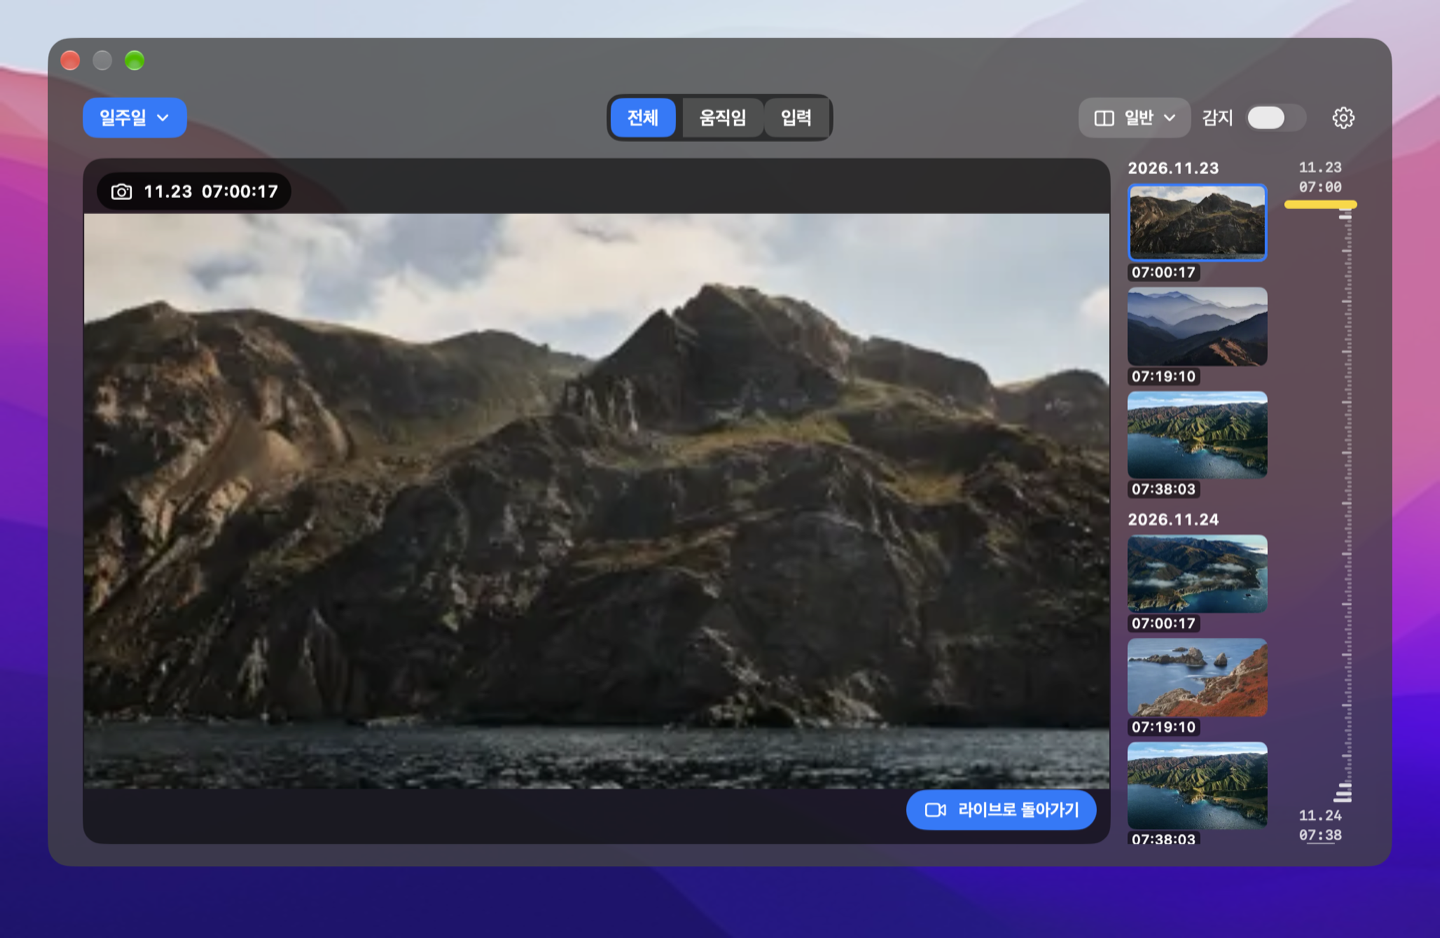
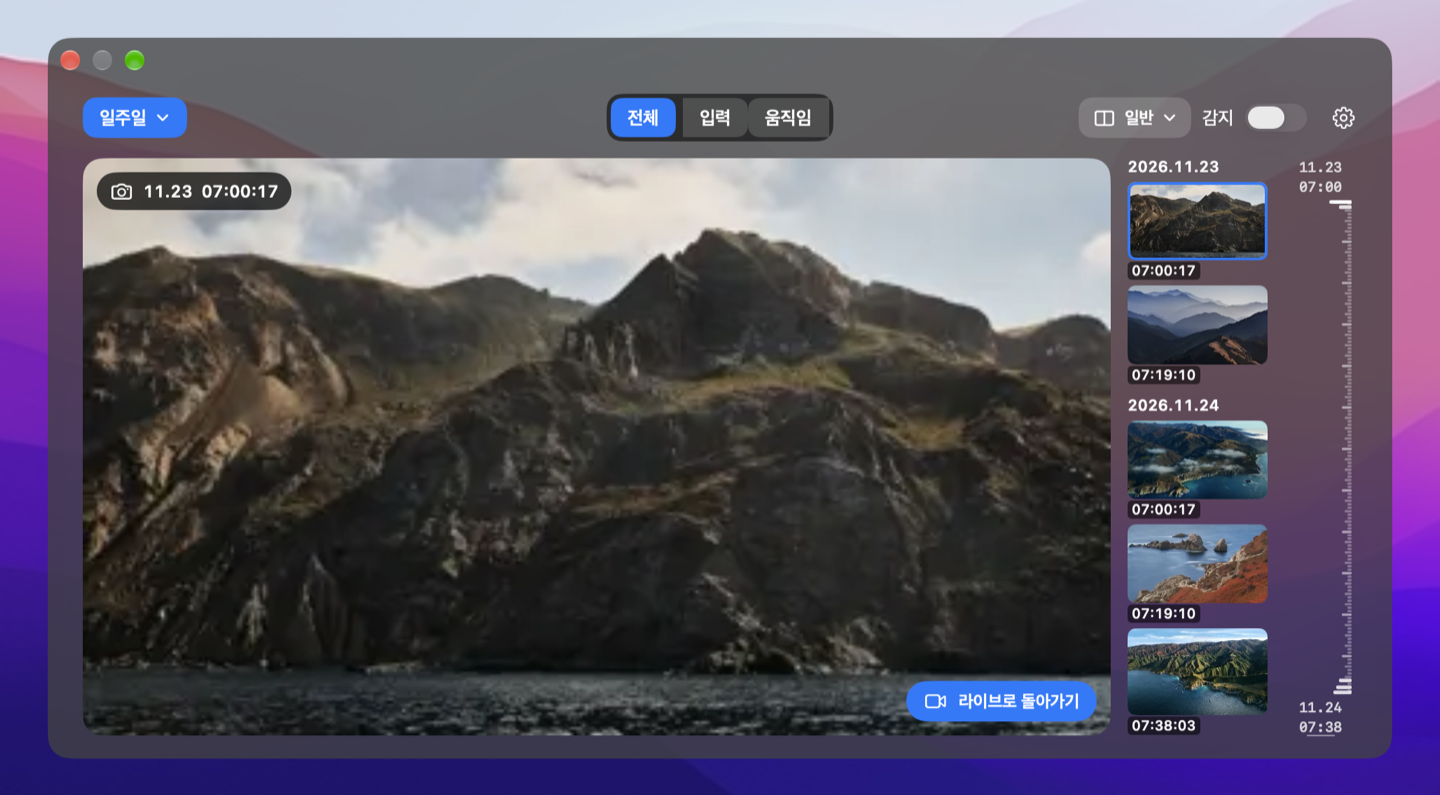
자리기록 0.3.3 영상 위 컨트롤과 짧은 세로 시간 눈금 적용

diff --git a/Tests/Checks.swift b/Tests/Checks.swift
@@ -26,11 +26,20 @@ struct Checks {
     @MainActor
     static func main() throws {
         var starts = 0
-        let feed = CameraFeed(requestAccess: { true }, startCamera: { _ in starts += 1 })
+        var source: MotionCamera?
+        let feed = CameraFeed(requestAccess: { true }, startCamera: { source = $0; starts += 1 })
         feed.showPreview(true)
         RunLoop.current.run(until: Date().addingTimeInterval(0.1))
         let session = feed.preview
         try expect(session != nil && starts == 1, "live preview starts one camera")
+        for (width, height) in [(320, 240), (640, 360)] {
+            var buffer: CVPixelBuffer?
+            guard CVPixelBufferCreate(nil, width, height, kCVPixelFormatType_32BGRA, nil, &buffer) == kCVReturnSuccess,
+                  let buffer, let source else { throw AppProblem("라이브 비율 시험 프레임 생성 실패") }
+            source.processFrame(buffer)
+            RunLoop.current.run(until: Date().addingTimeInterval(0.05))
+            try expect(feed.displayRatio == CGFloat(width) / CGFloat(height), "live surface follows the received frame aspect before arming")
+        }
         var armed = false
         Task { @MainActor in
             try await feed.beginDetection(minutes: 10, onImage: { _, _ in }, onFailure: { _ in })
@@ -250,18 +259,36 @@ struct Checks {
             return rep
         }
         func markerRow(_ rep: NSBitmapImageRep) -> Int? {
-            let x = Int((size.width - GalleryLayout.inset - 14) * CGFloat(rep.pixelsWide) / size.width)
-            return (0..<rep.pixelsHigh).first {
-                guard let color = rep.colorAt(x: x, y: $0)?.usingColorSpace(.sRGB) else { return false }
-                return color.redComponent > 0.85 && color.greenComponent > 0.65 && color.blueComponent < 0.4
+            let scale = CGFloat(rep.pixelsWide) / host.bounds.width
+            let edge = host.bounds.width - GalleryLayout.inset - 4
+            return (0..<rep.pixelsHigh).first { row in
+                (2...14).allSatisfy { offset in
+                    let x = Int((edge - CGFloat(offset)) * scale)
+                    guard let color = rep.colorAt(x: x, y: row)?.usingColorSpace(.sRGB) else { return false }
+                    return min(color.redComponent, color.greenComponent, color.blueComponent) > 0.85
+                }
             }
         }
+        settle()
+        let expectedHeight = GalleryLayout.standardOpeningHeight(windowWidth: size.width)
+        try expect(abs(window.contentLayoutRect.height - expectedHeight) <= 1, "standard window opens at the fitted 16:9 viewer height")
+        // An explicitly taller window must keep the overlay on the photo.
+        window.setContentSize(size)
         settle()
         try expect(model.cameraFeed.previewIssue != nil && !model.active, "camera denial keeps standard archive available and detection off")
         guard let scroll = list(host), let document = scroll.documentView else { throw AppProblem("저장 목록 없음") }
         let viewport = scroll.contentView
         try expect(abs(viewport.bounds.maxY - document.bounds.maxY) < 2, "standard list opens at the newest record (viewport \(viewport.bounds.maxY), document \(document.bounds.maxY))")
-        guard let liveMark = try markerRow(snapshot("standard-live.png")) else { throw AppProblem("세로 시간 눈금 표시 없음") }
+        let liveImage = try snapshot("standard-live.png")
+        guard let liveMark = markerRow(liveImage) else { throw AppProblem("세로 시간 눈금 표시 없음") }
+        let scale = CGFloat(liveImage.pixelsWide) / host.bounds.width
+        let edge = host.bounds.width - GalleryLayout.inset - 4
+        let middleRow = liveMark + Int(scale)
+        let length = (0..<Int(30 * scale)).filter { offset in
+            guard let c = liveImage.colorAt(x: Int(edge * scale) - offset, y: middleRow)?.usingColorSpace(.sRGB) else { return false }
+            return min(c.redComponent, c.greenComponent, c.blueComponent) > 0.85
+        }.count
+        try expect(abs(CGFloat(length) / scale - 16) <= 1, "vertical playhead uses a short neutral 16-point tick")
         viewport.scroll(to: CGPoint(x: 0, y: 80))
         scroll.reflectScrolledClipView(viewport)
         settle()
@@ -269,15 +296,17 @@ struct Checks {
         let frame = scroll.convert(scroll.bounds, to: nil)
         try click(CGPoint(x: frame.midX, y: frame.midY))
         guard let picked = try markerRow(snapshot("standard-photo.png")) else { throw AppProblem("선택 시간 표시 없음") }
-        try expect(abs(picked - liveMark) > 20, "clicking an old thumbnail moves the yellow marker")
+        try expect(abs(picked - liveMark) > 20, "clicking an old thumbnail moves the short neutral marker")
         let offset = viewport.bounds.minY
         _ = try store.save(data, kind: .screen, at: Date().addingTimeInterval(1))
         model.reload()
         settle()
         try expect(abs(viewport.bounds.minY - offset) < 2 && abs((try markerRow(snapshot()) ?? -1000) - picked) < 10,
                    "new capture preserves historical selection and reading position (was \(offset), now \(viewport.bounds.minY))")
-        try click(CGPoint(x: frame.minX - 95, y: frame.minY + 25))
-        try expect(try markerRow(snapshot()) == liveMark, "return to live restores the latest-record marker")
+        let mediaWidth = frame.minX - GalleryLayout.gap - GalleryLayout.inset
+        let mediaBottom = frame.maxY - mediaWidth * 9 / 16
+        try click(CGPoint(x: frame.minX - 90, y: mediaBottom + 24))
+        try expect(try markerRow(snapshot()) == liveMark, "button over the photo restores live and the latest-record marker")
         for (width, expected) in [(680, 66), (961, 100), (1440, 158), (960, 100)] {
             window.setContentSize(CGSize(width: CGFloat(width), height: size.height))
             settle()

diff --git a/Sources/TimeRuler.swift b/Sources/TimeRuler.swift
@@ -27,10 +27,23 @@ struct TimeRuler: View {
         VStack(spacing: 3) {
             if vertical, let first = index.chronological.first { timeLabel(first) }
             GeometryReader { proxy in
+                let position = active.map { index.fraction(of: $0.date) }
                 WaveTicks(buckets: index.marks, center: lastPosition, gain: pointer == nil ? 0 : 1,
-                          currentPosition: active.map { index.fraction(of: $0.date) }, reduceMotion: reduceMotion, vertical: vertical)
+                          currentPosition: vertical ? nil : position, reduceMotion: reduceMotion, vertical: vertical)
                 .animation(reduceMotion ? nil : .easeOut(duration: 0.11), value: lastPosition)
                 .animation(reduceMotion ? nil : .easeOut(duration: 0.16), value: pointer != nil)
+                .overlay {
+                    if vertical, let position {
+                        let length = min(16, max(0, proxy.size.width - 4))
+                        let thickness = min(2.5, proxy.size.height)
+                        Capsule().fill(.white.opacity(0.94))
+                            .frame(width: length, height: thickness)
+                            .position(x: proxy.size.width - 4 - length / 2,
+                                      y: min(max(thickness / 2, proxy.size.height * position), proxy.size.height - thickness / 2))
+                            .id(position).transition(.opacity)
+                    }
+                }
+                .animation(reduceMotion ? nil : .easeOut(duration: 0.12), value: vertical ? position : nil)
                 .contentShape(Rectangle())
                 .onContinuousHover { phase in
                     switch phase {
@@ -133,7 +146,8 @@ private struct WaveTicks: View, Animatable {
                 let base: CGFloat = major ? 7 : (i.isMultiple(of: 3) ? 5 : 3)
                 let distance = (t-center)*width
                 let proximity = gain * exp(-pow(distance/28, 2)/2)
-                let extra = reduceMotion ? 0 : 21*proximity*(0.87+0.13*cos(distance/8))
+                let amplitude: CGFloat = vertical ? 4 : 21
+                let extra = reduceMotion ? 0 : amplitude * proximity * (0.87 + 0.13 * cos(distance / 8))
                 let eventHeight = events == 0 ? 0 : min(10, 5+log2(Double(events+1)))
                 let h = min(max(0, baseline-5), base+extra+eventHeight)
                 let color: Color

diff --git a/Sources/StandardGallery.swift b/Sources/StandardGallery.swift
@@ -21,7 +21,7 @@ struct StandardGallery: View {
                         selected = item
                         scroll.scrollTo(item.id, anchor: .center)
                     }, vertical: true)
-                    .frame(width: 52)
+                    .frame(width: GalleryLayout.standardRulerWidth)
                 }
                 .onChange(of: index.chronological) { old, rows in
                     if let selected, !rows.contains(selected) {
@@ -33,7 +33,7 @@ struct StandardGallery: View {
                 }
             }
         }
-        .padding(.horizontal, GalleryLayout.inset).padding(.bottom, 16)
+        .padding(.horizontal, GalleryLayout.inset).padding(.bottom, GalleryLayout.standardBottomInset)
         .onAppear { feed.showPreview(true) }
         .onDisappear { feed.showPreview(false) }
     }
@@ -96,11 +96,12 @@ struct StandardGallery: View {
     }
 
     private var viewer: some View {
-        ZStack {
-            RoundedRectangle(cornerRadius: 14).fill(.black.opacity(0.56))
+        let ratio = selected.flatMap { Picture.aspectRatio(at: $0.url) } ?? feed.displayRatio ?? GalleryLayout.defaultVideoAspect
+        return Color.clear.aspectRatio(ratio, contentMode: .fit)
+        .overlay {
             if let selected {
                 FileImage(url: selected.url, detail: true).id(selected.url)
-                    .padding(1).accessibilityLabel(selected.kind.title)
+                    .accessibilityLabel(selected.kind.title)
             } else if let session = feed.preview {
                 CameraPreview(session: session).accessibilityLabel("라이브 카메라")
             } else if let issue = feed.previewIssue {
@@ -113,7 +114,9 @@ struct StandardGallery: View {
                 ProgressView("카메라 연결 중").controlSize(.small)
             }
         }
-        .frame(maxWidth: .infinity, maxHeight: .infinity)
+        .background {
+            if selected == nil && feed.preview == nil { Color.black.opacity(0.56) }
+        }
         .overlay(alignment: .topLeading) {
             HStack(spacing: 6) {
                 if let selected {
@@ -138,6 +141,7 @@ struct StandardGallery: View {
             }
         }
         .clipShape(RoundedRectangle(cornerRadius: 14))
+        .frame(maxWidth: .infinity, maxHeight: .infinity, alignment: .top)
     }
 }
 

diff --git a/Sources/MotionCamera.swift b/Sources/MotionCamera.swift
@@ -10,9 +10,13 @@ final class MotionCamera: NSObject, AVCaptureVideoDataOutputSampleBufferDelegate
     private var lastSample = -Double.infinity
     private var gate: MotionGate?
     private var onImage: (@Sendable (CGImage, Date) -> Void)?
+    private var lastDisplaySize = CGSize.zero
+    private let onDisplayRatio: @Sendable (CGFloat) -> Void
     private let onFailure: @Sendable (String) -> Void
 
-    init(onFailure: @escaping @Sendable (String) -> Void) {
+    init(onDisplayRatio: @escaping @Sendable (CGFloat) -> Void,
+         onFailure: @escaping @Sendable (String) -> Void) {
+        self.onDisplayRatio = onDisplayRatio
         self.onFailure = onFailure
     }
 
@@ -80,8 +84,18 @@ final class MotionCamera: NSObject, AVCaptureVideoDataOutputSampleBufferDelegate
     }
 
     func captureOutput(_ output: AVCaptureOutput, didOutput sampleBuffer: CMSampleBuffer, from connection: AVCaptureConnection) {
+        guard let buffer = CMSampleBufferGetImageBuffer(sampleBuffer) else { return }
+        processFrame(buffer)
+    }
+
+    func processFrame(_ buffer: CVPixelBuffer) {
+        let size = CVImageBufferGetDisplaySize(buffer)
+        if size.width > 0, size.height > 0, size != lastDisplaySize {
+            lastDisplaySize = size
+            onDisplayRatio(size.width / size.height)
+        }
         let now = ProcessInfo.processInfo.systemUptime
-        guard let onImage, now - lastSample >= 0.18, let buffer = CMSampleBufferGetImageBuffer(sampleBuffer) else { return }
+        guard let onImage, now - lastSample >= 0.18 else { return }
         lastSample = now
         guard gate?.shouldCapture(Self.luminance(buffer), at: now) == true else { return }
         let date = Date()

diff --git a/Sources/CameraFeed.swift b/Sources/CameraFeed.swift
@@ -5,6 +5,7 @@ import Combine
 @MainActor
 final class CameraFeed: ObservableObject {
     @Published private(set) var preview: AVCaptureSession?
+    @Published private(set) var displayRatio: CGFloat?
     @Published private(set) var previewIssue: String?
     private var camera: MotionCamera?
     private var startup: Task<Void, Error>?
@@ -64,7 +65,12 @@ final class CameraFeed: ObservableObject {
         if camera == nil {
             let id = UUID()
             cameraID = id
-            let source = MotionCamera { [weak self] reason in
+            let source = MotionCamera(onDisplayRatio: { [weak self] ratio in
+                Task { @MainActor in
+                    guard let self, self.cameraID == id else { return }
+                    self.displayRatio = ratio
+                }
+            }) { [weak self] reason in
                 Task { @MainActor in
                     guard let self, self.cameraID == id else { return }
                     self.releaseCamera()
@@ -100,6 +106,7 @@ final class CameraFeed: ObservableObject {
 
     private func releaseCamera() {
         cameraID = UUID()
+        displayRatio = nil
         preview = nil
         startup?.cancel()
         startup = nil

diff --git a/Sources/LibraryView.swift b/Sources/LibraryView.swift
@@ -68,8 +68,8 @@ struct LibraryView: View {
                     chip("전체", leading: 8, trailing: 8, selected: kind == nil) { kind = nil }
                         .accessibilityLabel("감지 종류 전체")
                     HStack(spacing: 0) {
-                        chip("움직임", leading: 0, trailing: 8, selected: kind == .camera) { kind = .camera }
-                        chip("입력", leading: 8, trailing: 0, selected: kind == .screen) { kind = .screen }
+                        chip("입력", leading: 0, trailing: 8, selected: kind == .screen) { kind = .screen }
+                        chip("움직임", leading: 8, trailing: 0, selected: kind == .camera) { kind = .camera }
                     }
                 }
                 .padding(3).background(.black.opacity(0.56), in: RoundedRectangle(cornerRadius: 11))

diff --git a/Sources/ArchiveStyle.swift b/Sources/ArchiveStyle.swift
@@ -34,6 +34,16 @@ enum GalleryLayout {
         return ((fullWidth / 3) / 2).rounded() * 2
     }
 
+    static let standardRulerWidth: CGFloat = 52
+    static let defaultVideoAspect: CGFloat = 16.0 / 9.0
+    static let standardBottomInset: CGFloat = 16
+
+    static func standardOpeningHeight(windowWidth: CGFloat) -> CGFloat {
+        let contentWidth = windowWidth - inset * 2
+        let viewerWidth = contentWidth - standardThumbnailWidth(in: contentWidth) - standardRulerWidth - gap * 2
+        return max(350, ceil(viewerWidth / defaultVideoAspect) + 8 + 34 + gap + standardBottomInset)
+    }
+
     static let rulerHeight: CGFloat = 31
     static let clockHeight: CGFloat = 13
     // Header (8+34), two gaps, photo, ruler, clock spacing and bottom inset.

diff --git a/Sources/WindowGlass.swift b/Sources/WindowGlass.swift
@@ -53,7 +53,7 @@ struct WindowGlass: NSViewRepresentable {
             // keeping the restored width and top edge and allowing later manual resizing.
             let old = window.frame
             let chrome = old.height - window.contentLayoutRect.height
-            let target = mode == .mini ? GalleryLayout.minimumHeight : 560
+            let target = mode == .mini ? GalleryLayout.minimumHeight : GalleryLayout.standardOpeningHeight(windowWidth: window.contentLayoutRect.width)
             let height = min(window.screen?.visibleFrame.height ?? .greatestFiniteMagnitude,
                              max(window.minSize.height, target + chrome))
             guard abs(old.height - height) >= 1 else { return }

diff --git a/README.md b/README.md
@@ -4,7 +4,7 @@
 
 **macOS 14 이상 · Apple Silicon 및 Intel 지원**
 
-[자리기록 0.3.2 설치 파일 받기](https://github.com/sundaynighttt/desk-trace/releases/download/v0.3.2/DeskTrace-0.3.2.dmg) · [릴리스 기록](https://github.com/sundaynighttt/desk-trace/releases)
+[자리기록 0.3.3 설치 파일 받기](https://github.com/sundaynighttt/desk-trace/releases/download/v0.3.3/DeskTrace-0.3.3.dmg) · [릴리스 기록](https://github.com/sundaynighttt/desk-trace/releases)
 
 ![시험용 사진으로 본 일반 모드. 왼쪽에 선택한 사진이 크게 보이고 오른쪽에 촬영 시각이 표시된 목록과 세로 시간 눈금이 있습니다.](docs/gallery.png)
 
@@ -19,11 +19,11 @@
 
 ## 갤러리 사용법
 
-갤러리를 처음 열면 왼쪽 기간 버튼에 **일주일**이 표시되고, 오늘을 포함한 최근 7일의 기록이 보입니다. 버튼을 누르면 **오늘 · 일주일 · 한달 · 전체** 중 하나를 선택할 수 있습니다. 가운데의 **전체 · 움직임 · 입력**은 선택한 기간 안에서 기록 종류를 고릅니다. 한달은 오늘을 포함한 최근 30일이고, 날짜는 맥의 현지 시각을 따릅니다.
+갤러리를 처음 열면 왼쪽 기간 버튼에 **일주일**이 표시되고, 오늘을 포함한 최근 7일의 기록이 보입니다. 버튼을 누르면 **오늘 · 일주일 · 한달 · 전체** 중 하나를 선택할 수 있습니다. 가운데의 **전체 · 입력 · 움직임**은 선택한 기간 안에서 기록 종류를 고릅니다. 한달은 오늘을 포함한 최근 30일이고, 날짜는 맥의 현지 시각을 따릅니다.
 
 - 오른쪽 상단의 모드 메뉴는 감지 스위치 바로 왼쪽에 있습니다. 기본값인 **미니**에서 **일반**을 선택하면 같은 창이 넓어집니다. 두 모드는 기간과 종류 필터, 감지 상태를 공유합니다.
 - **일반 모드** 왼쪽에는 라이브 카메라, 오른쪽에는 저장 사진 한 열, 맨 오른쪽에는 세로 시간 눈금이 있습니다. 목록과 눈금 모두 위가 과거, 아래가 최신입니다. 스크롤하면 목록만 움직입니다. 사진이나 눈금을 클릭하면 왼쪽에 해당 사진을 크게 표시하며, **라이브로 돌아가기**를 누르면 현재 영상이 보입니다. 새 기록이 생겨도 보고 있던 과거 사진과 목록 위치를 유지합니다. 기간이나 종류를 바꿔 선택한 사진이 빠지면 라이브로 돌아갑니다.
-- 일반 모드의 굵은 노란 눈금은 선택한 사진의 시각을 가리킵니다. 라이브에서는 현재 필터의 최신 기록을 가리킵니다. 감지를 끄고 라이브만 볼 때는 사진을 저장하지 않습니다. 카메라 권한이 없어도 저장 사진을 열 수 있습니다.
+- 일반 모드에서는 촬영 정보와 라이브 복귀 버튼이 영상·사진 안쪽에 겹쳐 표시됩니다. 일반 모드를 열 때 창 높이는 기본 16:9 영상의 표시 폭에 맞춰집니다. 라이브는 들어오는 영상 비율을 따르고, 저장 사진은 파일의 원본 비율로 전체 구도를 보여줍니다. 오른쪽 시간축의 짧은 흰색 눈금은 선택한 사진의 시각을 가리키고, 포인터 주변 눈금은 살짝 길어집니다. 라이브에서는 현재 필터의 최신 기록을 가리킵니다. 감지를 끄고 라이브만 볼 때는 사진을 저장하지 않습니다. 카메라 권한이 없어도 저장 사진을 열 수 있습니다.
 - **미니 모드**는 사진 한 줄에 맞춘 최소 높이로 열립니다. 사진과 시간 눈금은 모두 왼쪽이 과거, 오른쪽이 최신입니다. 창을 열거나 필터를 바꾸면 해당 기간의 최신 사진이 보입니다. 두 모드 모두 사진의 촬영 시각을 항상 표시합니다. 미니 모드에서 사진을 가리키면 파란 테두리가 보이고, 클릭하면 원래 비율로 크게 볼 수 있습니다.
 - 아래 시간 눈금 위에서 포인터를 움직이면 눈금이 물결처럼 솟고 해당 기록이 보입니다. 굵고 높은 노란 막대 하나가 현재 보고 있는 사진의 촬영 시각을 표시합니다. 창을 처음 열면 최신 사진의 시각을 가리키고, 기록이 없으면 표시되지 않습니다. 눈금을 클릭하면 선택이 고정되며 좌우 방향키로 인접 기록을 고를 수 있습니다. 사진은 같은 간격으로 놓이고 눈금은 실제 시간 간격을 나타냅니다.
 - 오른쪽 위 설정에서 촬영 간격과 감지 종류를 바꾸거나 저장 폴더를 엽니다. 감지 중에도 기록을 조회할 수 있습니다.
@@ -33,7 +33,7 @@
 
 일반 모드의 오른쪽 저장 사진은 같은 창에서 0.3.0 사진 폭의 1/3에 가장 가까운 짝수 포인트로 표시합니다. 사진 높이는 저장된 원본의 가로·세로 비율에 맞춥니다. 960포인트 창에서 폭은 100포인트이고, 16:9 사진의 높이는 약 56포인트, 정사각형 사진은 100포인트입니다. 날짜는 맥의 현지 날짜별 묶음 맨 위에 한 번 표시합니다. 각 사진 바로 아래에는 촬영 시각(시:분:초)만 한 줄로 두고, 같은 날의 기록 사이에는 4포인트 간격을 둡니다.
 
-가운데 필터는 더 어두운 배경 하나로 감쌉니다. 전체 버튼 옆에는 움직임과 입력을 붙이고, 움직임 버튼의 오른쪽 모서리와 입력 버튼의 왼쪽 모서리만 둥글게 합니다. 미니 모드의 기본 창에는 약 7장의 사진이 보입니다. 상단 버튼과 사진, 사진과 물결 눈금 영역 사이의 간격은 각각 12포인트입니다. 사진 줄과 시간 눈금의 좌우 여백은 상단과 같은 25포인트입니다. 지난번 창을 높게 늘려 두었어도 다음 실행에서는 한 줄 높이로 시작하며, 연 뒤에는 크기를 조절할 수 있습니다. 기간 버튼 왼쪽과 설정 버튼 오른쪽에 같은 여백을 둡니다. 배경은 어두운 반투명이고, 선택한 필터는 파란색, 나머지는 반투명 회색입니다. 시스템에서 투명도 줄이기를 켜면 단색 배경을 사용하고, 동작 줄이기를 켜면 시간 눈금의 물결 높이를 고정합니다. 빈 목록, 필터 결과 없음, 한 장, 같은 시각의 여러 기록을 모두 지원합니다.
+가운데 필터는 더 어두운 배경 하나로 감쌉니다. 전체 버튼 옆에는 입력과 움직임을 차례로 붙이고, 두 버튼이 서로 마주 보는 모서리만 둥글게 합니다. 미니 모드의 기본 창에는 약 7장의 사진이 보입니다. 상단 버튼과 사진, 사진과 물결 눈금 영역 사이의 간격은 각각 12포인트입니다. 사진 줄과 시간 눈금의 좌우 여백은 상단과 같은 25포인트입니다. 지난번 창을 높게 늘려 두었어도 다음 실행에서는 한 줄 높이로 시작하며, 연 뒤에는 크기를 조절할 수 있습니다. 기간 버튼 왼쪽과 설정 버튼 오른쪽에 같은 여백을 둡니다. 배경은 어두운 반투명이고, 선택한 필터는 파란색, 나머지는 반투명 회색입니다. 시스템에서 투명도 줄이기를 켜면 단색 배경을 사용하고, 동작 줄이기를 켜면 시간 눈금의 물결 높이를 고정합니다. 빈 목록, 필터 결과 없음, 한 장, 같은 시각의 여러 기록을 모두 지원합니다.
 
 </details>
 
@@ -61,6 +61,6 @@
 ./scripts/package.sh
 ```
 
-빌드 시 공식 libwebp 소스를 내려받아 고정된 SHA-256 값을 확인합니다. 완성된 앱에는 인코더가 포함됩니다. 설치하는 맥에는 위 개발 도구가 필요하지 않습니다. 기본 산출물은 `.build/자리기록.app`과 `.build/DeskTrace-0.3.2.dmg`입니다. Apple Silicon과 Intel용 코드를 함께 포함합니다. 위 명령은 로컬 시험용 서명을 사용합니다. 공개 배포용 DMG는 빌드 후 `DESKTRACE_SIGN_IDENTITY`에 Developer ID Application 인증서를, `DESKTRACE_NOTARY_PROFILE`에 Apple 공증용 키체인 프로필 이름을 지정하고 `./scripts/release.sh`를 실행하면 생성됩니다. 스크립트는 앱과 DMG에 서명하고 Apple 공증을 받은 뒤 공증 확인표를 첨부해 검증합니다.
+빌드 시 공식 libwebp 소스를 내려받아 고정된 SHA-256 값을 확인합니다. 완성된 앱에는 인코더가 포함됩니다. 설치하는 맥에는 위 개발 도구가 필요하지 않습니다. 기본 산출물은 `.build/자리기록.app`과 `.build/DeskTrace-0.3.3.dmg`입니다. Apple Silicon과 Intel용 코드를 함께 포함합니다. 위 명령은 로컬 시험용 서명을 사용합니다. 공개 배포용 DMG는 빌드 후 `DESKTRACE_SIGN_IDENTITY`에 Developer ID Application 인증서를, `DESKTRACE_NOTARY_PROFILE`에 Apple 공증용 키체인 프로필 이름을 지정하고 `./scripts/release.sh`를 실행하면 생성됩니다. 스크립트는 앱과 DMG에 서명하고 Apple 공증을 받은 뒤 공증 확인표를 첨부해 검증합니다.
 
 WebP 라이브러리의 저작권 및 특허 안내는 `Notices/`와 앱 번들의 Resources에 포함됩니다.
